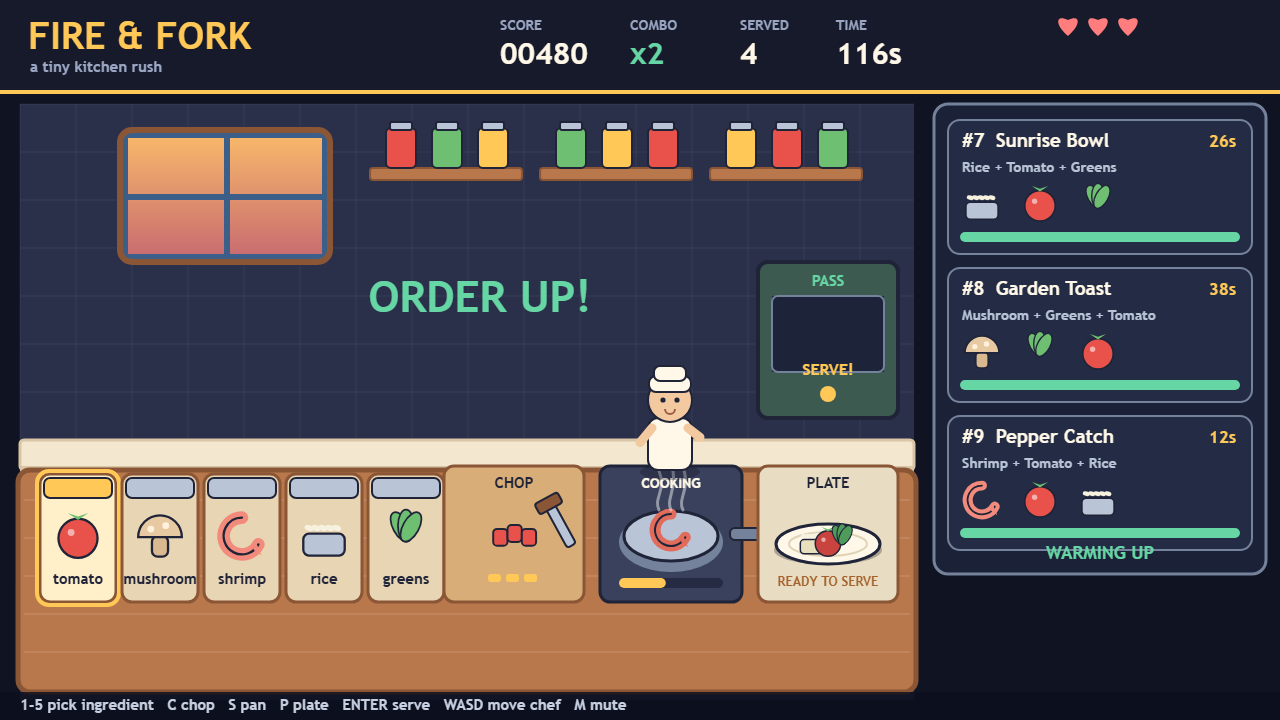
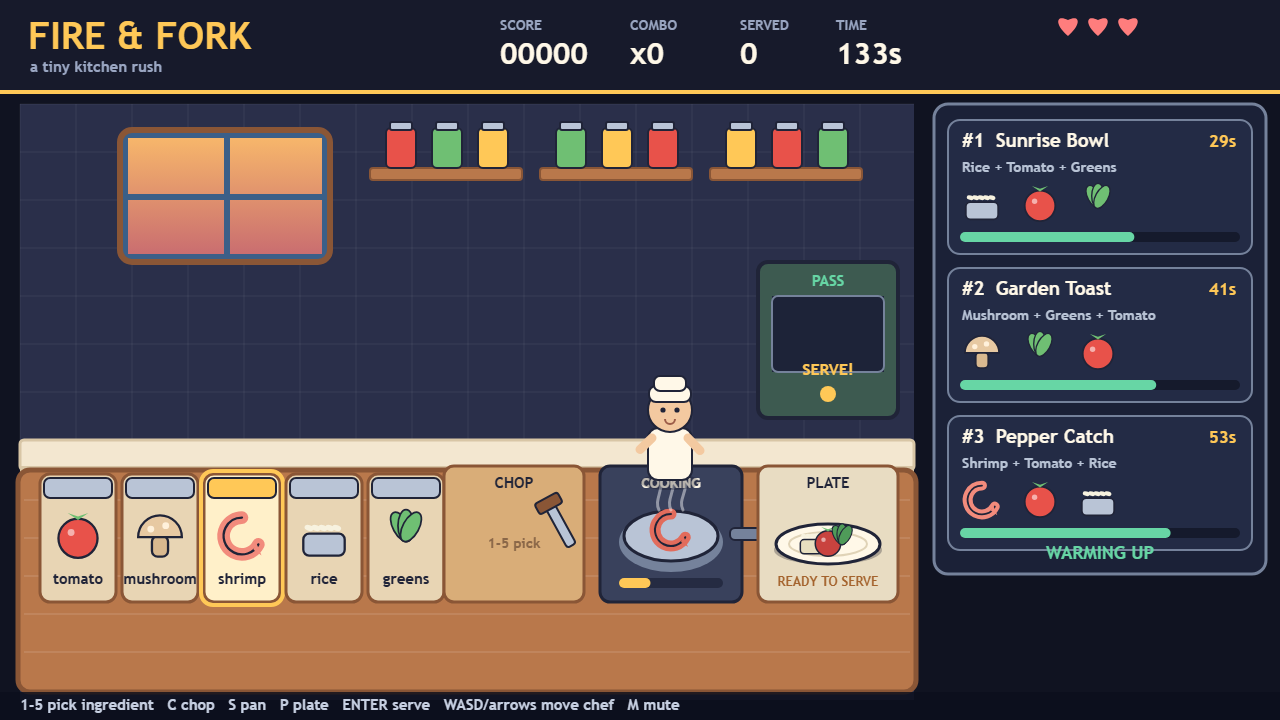
Polish controls and use real gameplay screenshots

diff --git a/game/src/main.js b/game/src/main.js
@@ -1,32 +1,34 @@
 // Boot the kitchen, wire keyboard and mouse, and draw every frame.
 import { drawKitchen, BINS, CHOP, STOVE, DISH, HATCH } from './kitchen.js';
 import { drawHud } from './hud.js';
-import { initialState, applyShot, start, pick, chop, toPan, toPlate, serve, nudgeChef, update } from './game.js';
+import { initialState, start, pick, chop, toPan, toPlate, serve, nudgeChef, update } from './game.js';
+import { toggleMute } from './audio.js';
 
 const canvas = document.getElementById('stage');
 const ctx = canvas.getContext('2d');
 const state = initialState();
-const shot = new URLSearchParams(location.search).get('shot');
-if (shot) applyShot(state, shot);
 
 const keys = {
   '1': 'tomato', '2': 'mushroom', '3': 'shrimp', '4': 'rice', '5': 'greens',
 };
 
 window.addEventListener('keydown', (e) => {
-  if (state.shot) return;
   const k = e.key.toLowerCase();
+  const t = performance.now() / 1000;
   if (keys[k]) pick(state, keys[k]);
-  else if (k === 'c') chop(state, performance.now() / 1000);
-  else if (k === 's') toPan(state, performance.now() / 1000);
-  else if (k === 'p') toPlate(state, performance.now() / 1000);
-  else if (k === 'enter') {
+  else if (k === 'c') chop(state, t);
+  else if (k === 's') toPan(state, t);
+  else if (k === 'p') toPlate(state, t);
+  else if (k === 'm') {
+    const off = toggleMute();
+    state.flash = { text: off ? 'MUTED' : 'SOUND ON', good: true, at: t };
+  } else if (k === 'enter') {
     if (state.phase === 'title' || state.phase === 'over') start(state);
-    else serve(state, performance.now() / 1000);
-  } else if (k === 'w') nudgeChef(state, 0, -1);
-  else if (k === 'a') nudgeChef(state, -1, 0);
-  else if (k === 'd') nudgeChef(state, 1, 0);
-  else if (k === 'x') nudgeChef(state, 0, 1);
+    else serve(state, t);
+  } else if (k === 'w' || k === 'arrowup') nudgeChef(state, 0, -1);
+  else if (k === 'a' || k === 'arrowleft') nudgeChef(state, -1, 0);
+  else if (k === 'd' || k === 'arrowright') nudgeChef(state, 1, 0);
+  else if (k === 'x' || k === 'arrowdown') nudgeChef(state, 0, 1);
   if (['enter', ' ', 'arrowup', 'arrowdown', 'arrowleft', 'arrowright'].includes(k)) e.preventDefault();
 });
 
@@ -35,7 +37,6 @@ function inside(p, b) {
 }
 
 canvas.addEventListener('click', (e) => {
-  if (state.shot) return;
   const r = canvas.getBoundingClientRect();
   const p = {
     x: (e.clientX - r.left) * canvas.width / r.width,
@@ -57,7 +58,6 @@ function frame(now) {
   last = now;
   const t = now / 1000;
   update(state, dt, t);
-  if (state.shot && state.flash) state.flash.at = t;
   ctx.clearRect(0, 0, canvas.width, canvas.height);
   drawKitchen(ctx, state, t);
   drawHud(ctx, state, t);

diff --git a/game/src/game.js b/game/src/game.js
@@ -19,7 +19,6 @@ export function initialState() {
     chef: { x: 470, y: 420 },
     flash: null,
     nextRush: 14,
-    shot: null,
   };
 }
 
@@ -137,49 +136,5 @@ export function update(state, dt, t) {
       state.orders[0].left = Math.min(state.orders[0].left, 18);
       flash(state, 'NEW TICKET!', false, t);
     }
-  }
-}
-
-// Fixed, real renders of the game code for the four submitted screenshots.
-export function applyShot(state, name) {
-  const fresh = initialState();
-  Object.assign(state, fresh);
-  state.phase = 'play';
-  state.shot = name;
-  if (name === 'cover') {
-    state.orders = [makeOrder(0, 26), makeOrder(1, 38), makeOrder(2, 12)];
-    state.selected = 'tomato';
-    state.board = { item: 'tomato', chops: 3, done: true };
-    state.pan = { item: 'shrimp', progress: 0.72, burnt: false };
-    state.plate = ['rice', 'tomato', 'greens'];
-    state.chef = { x: 670, y: 420 };
-    state.score = 480; state.combo = 2; state.served = 4; state.elapsed = 34;
-    state.flash = { text: 'ORDER UP!', good: true, at: 0 };
-  } else if (name === 'chop') {
-    state.orders = [makeOrder(1, 31), makeOrder(2, 44), makeOrder(3, 55)];
-    state.selected = 'mushroom';
-    state.board = { item: 'mushroom', chops: 2, done: false };
-    state.plate = ['greens'];
-    state.chef = { x: 512, y: 420 };
-    state.score = 210; state.combo = 1; state.served = 2; state.elapsed = 18;
-    state.flash = { text: 'CHOP CHOP!', good: true, at: 0 };
-  } else if (name === 'rush') {
-    state.orders = [makeOrder(2, 9), makeOrder(4, 14), makeOrder(0, 21)];
-    state.selected = 'shrimp';
-    state.board = { item: 'rice', chops: 3, done: true };
-    state.pan = { item: 'tomato', progress: 1.2, burnt: false };
-    state.plate = ['shrimp', 'greens', 'rice'];
-    state.chef = { x: 826, y: 350 };
-    state.score = 1640; state.combo = 5; state.served = 11; state.elapsed = 72;
-    state.rush = true;
-    state.flash = { text: 'SERVICE RUSH!', good: true, at: 0 };
-  } else if (name === 'serve') {
-    state.orders = [makeOrder(3, 35), makeOrder(4, 48), makeOrder(0, 60)];
-    state.selected = 'greens';
-    state.plate = ['mushroom', 'rice', 'greens'];
-    state.chef = { x: 826, y: 340 };
-    state.score = 2310; state.combo = 6; state.served = 15; state.elapsed = 96;
-    state.rush = true;
-    state.flash = { text: 'PERFECT x6!', good: true, at: 0 };
   }
 }

diff --git a/game/src/hud.js b/game/src/hud.js
@@ -49,7 +49,7 @@ export function drawHud(ctx, state, t) {
   label(ctx, state.rush ? 'SERVICE RUSH!' : 'WARMING UP', BOARD.x + BOARD.w / 2, BOARD.y + BOARD.h - 20, 18, state.rush ? C.hot : C.good, 'center');
 
   ctx.fillStyle = 'rgba(12,15,28,0.82)'; ctx.fillRect(0, 692, 1280, 28);
-  label(ctx, '1-5 pick ingredient   C chop   S pan   P plate   ENTER serve   WASD move chef   M mute', 20, 706, 15, '#c7d0e2');
+  label(ctx, '1-5 pick ingredient   C chop   S pan   P plate   ENTER serve   WASD/arrows move chef   M mute', 20, 706, 15, '#c7d0e2');
 
   if (state.phase === 'title') {
     ctx.fillStyle = 'rgba(12,15,28,0.72)'; ctx.fillRect(0, 0, 1280, 720);

diff --git a/game/src/audio.js b/game/src/audio.js
@@ -1,5 +1,11 @@
 // Small synthesized kitchen sounds. No audio files, no network: just the WebAudio API.
 let context = null;
+let muted = false;
+
+export function toggleMute() {
+  muted = !muted;
+  return muted;
+}
 
 function ac() {
   if (!context) {
@@ -11,6 +17,7 @@ function ac() {
 }
 
 function tone(freq, ms, type = 'sine', volume = 0.08, slide = 0) {
+  if (muted) return;
   const c = ac();
   if (!c) return;
   const o = c.createOscillator();
